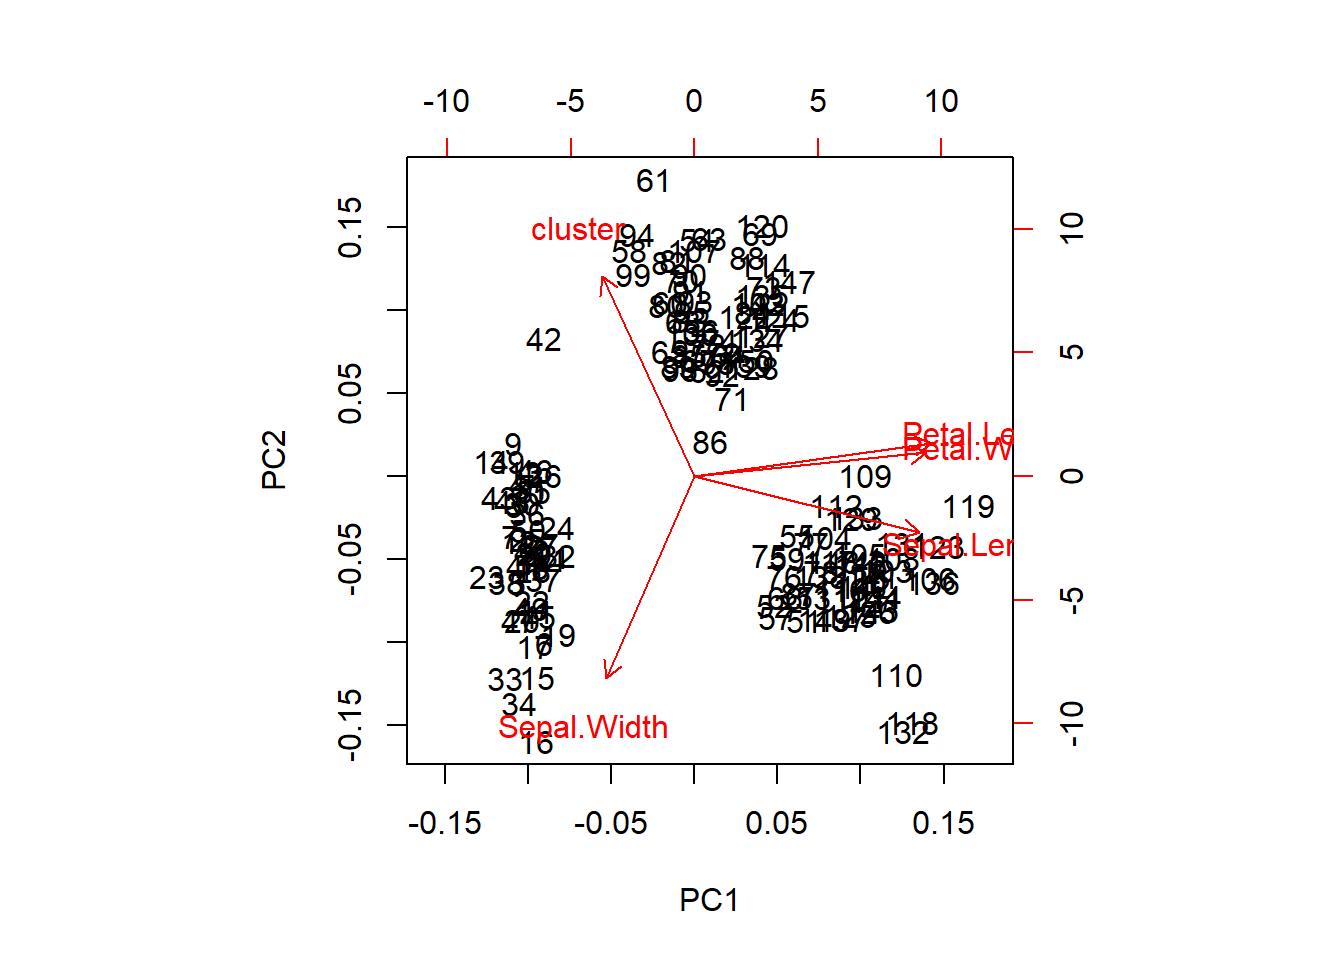
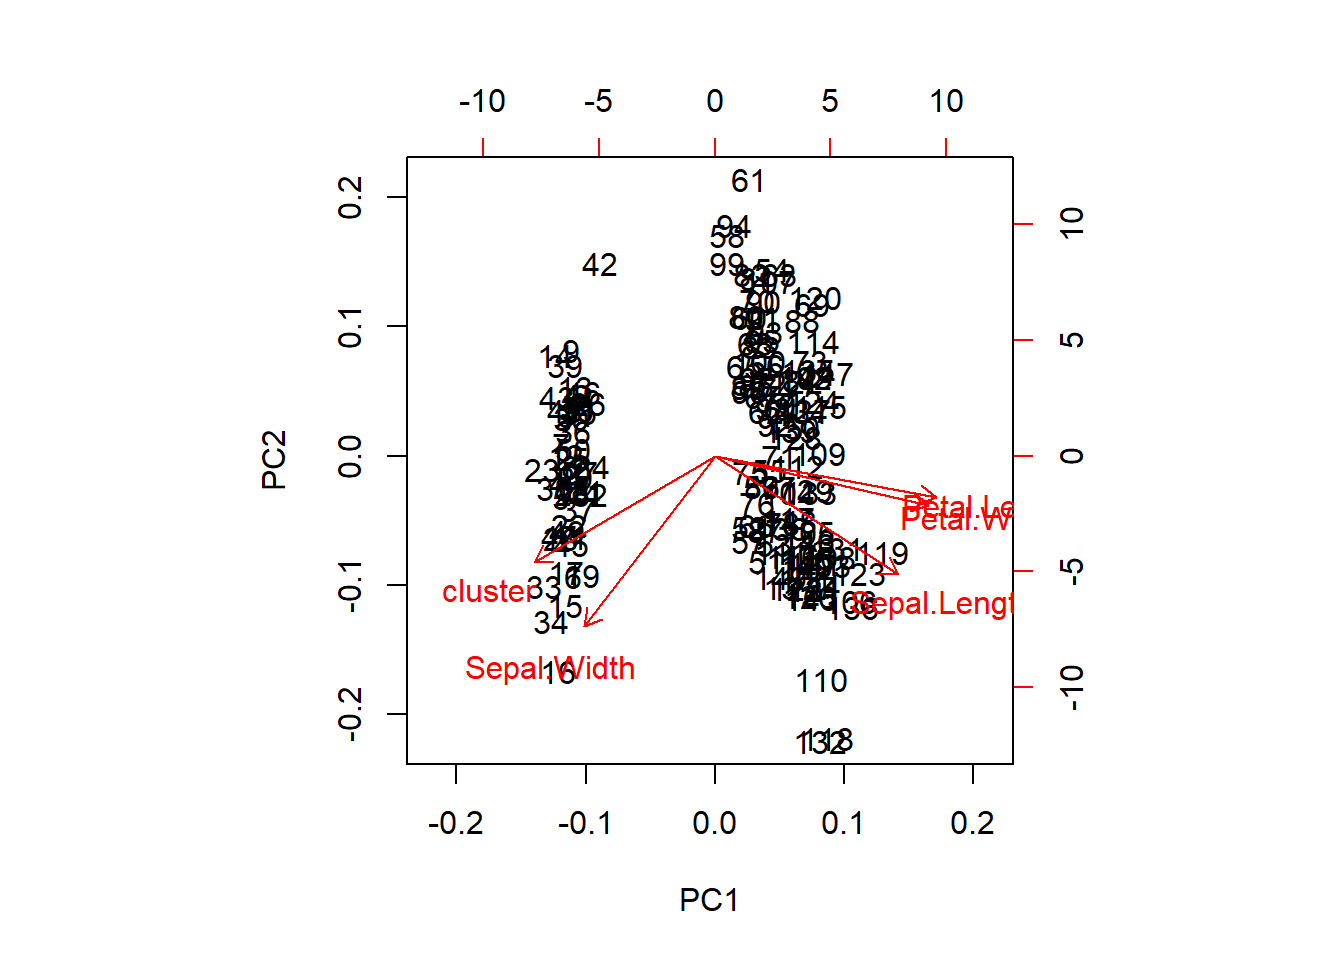
Added theme

diff --git a/docs/Principal-Component-Analysis.html b/docs/Principal-Component-Analysis.html
@@ -15,7 +15,7 @@
 
 <script src="site_libs/jquery-1.11.3/jquery.min.js"></script>
 <meta name="viewport" content="width=device-width, initial-scale=1" />
-<link href="site_libs/bootstrap-3.3.5/css/bootstrap.min.css" rel="stylesheet" />
+<link href="site_libs/bootstrap-3.3.5/css/cosmo.min.css" rel="stylesheet" />
 <script src="site_libs/bootstrap-3.3.5/js/bootstrap.min.js"></script>
 <script src="site_libs/bootstrap-3.3.5/shim/html5shiv.min.js"></script>
 <script src="site_libs/bootstrap-3.3.5/shim/respond.min.js"></script>
@@ -322,12 +322,12 @@ $(document).ready(function () {
 <pre class="r"><code>pca.iris = prcomp(x=iris[-5], scale=T, center=T)</code></pre>
 <p>Which predictors contribute to which principal components</p>
 <pre class="r"><code>pca.iris$rotation</code></pre>
-<pre><code>##                     PC1         PC2       PC3         PC4         PC5
-## Sepal.Length  0.5338256 -0.19269369 0.1591462 -0.75077244  0.29818224
-## Sepal.Width  -0.2100117 -0.69075550 0.6719121  0.12983301 -0.10212486
-## Petal.Length  0.5641321  0.11305340 0.1542496  0.08768809 -0.79843082
-## Petal.Width   0.5515446  0.08050033 0.2130322  0.61932524  0.51026639
-## cluster      -0.2201793  0.68298214 0.6738182 -0.16802134  0.05286116</code></pre>
+<pre><code>##                     PC1        PC2         PC3          PC4         PC5
+## Sepal.Length  0.4339438 -0.4902238  0.29215798 -0.634820119 -0.28813291
+## Sepal.Width  -0.3098553 -0.7032261 -0.63445712  0.001480336  0.08321481
+## Petal.Length  0.5241163 -0.1727258  0.04350378  0.138977369  0.82113373
+## Petal.Width   0.5066432 -0.2043216 -0.08201849  0.683153242 -0.47763999
+## cluster      -0.4292985 -0.4399684  0.70956907  0.333148863  0.08748807</code></pre>
 <p>Sepal.Width has little contribution to PC1 but almost all of PC2</p>
 <div id="visualization" class="section level3">
 <h3>Visualization</h3>

diff --git a/docs/Clustering-Overview.html b/docs/Clustering-Overview.html
@@ -15,7 +15,7 @@
 
 <script src="site_libs/jquery-1.11.3/jquery.min.js"></script>
 <meta name="viewport" content="width=device-width, initial-scale=1" />
-<link href="site_libs/bootstrap-3.3.5/css/bootstrap.min.css" rel="stylesheet" />
+<link href="site_libs/bootstrap-3.3.5/css/cosmo.min.css" rel="stylesheet" />
 <script src="site_libs/bootstrap-3.3.5/js/bootstrap.min.js"></script>
 <script src="site_libs/bootstrap-3.3.5/shim/html5shiv.min.js"></script>
 <script src="site_libs/bootstrap-3.3.5/shim/respond.min.js"></script>

diff --git a/docs/Hierarchical-Clustering.html b/docs/Hierarchical-Clustering.html
@@ -15,7 +15,7 @@
 
 <script src="site_libs/jquery-1.11.3/jquery.min.js"></script>
 <meta name="viewport" content="width=device-width, initial-scale=1" />
-<link href="site_libs/bootstrap-3.3.5/css/bootstrap.min.css" rel="stylesheet" />
+<link href="site_libs/bootstrap-3.3.5/css/cosmo.min.css" rel="stylesheet" />
 <script src="site_libs/bootstrap-3.3.5/js/bootstrap.min.js"></script>
 <script src="site_libs/bootstrap-3.3.5/shim/html5shiv.min.js"></script>
 <script src="site_libs/bootstrap-3.3.5/shim/respond.min.js"></script>

diff --git a/docs/K-Means-Clustering.html b/docs/K-Means-Clustering.html
@@ -15,7 +15,7 @@
 
 <script src="site_libs/jquery-1.11.3/jquery.min.js"></script>
 <meta name="viewport" content="width=device-width, initial-scale=1" />
-<link href="site_libs/bootstrap-3.3.5/css/bootstrap.min.css" rel="stylesheet" />
+<link href="site_libs/bootstrap-3.3.5/css/cosmo.min.css" rel="stylesheet" />
 <script src="site_libs/bootstrap-3.3.5/js/bootstrap.min.js"></script>
 <script src="site_libs/bootstrap-3.3.5/shim/html5shiv.min.js"></script>
 <script src="site_libs/bootstrap-3.3.5/shim/respond.min.js"></script>

diff --git a/docs/index.html b/docs/index.html
@@ -15,7 +15,7 @@
 
 <script src="site_libs/jquery-1.11.3/jquery.min.js"></script>
 <meta name="viewport" content="width=device-width, initial-scale=1" />
-<link href="site_libs/bootstrap-3.3.5/css/bootstrap.min.css" rel="stylesheet" />
+<link href="site_libs/bootstrap-3.3.5/css/cosmo.min.css" rel="stylesheet" />
 <script src="site_libs/bootstrap-3.3.5/js/bootstrap.min.js"></script>
 <script src="site_libs/bootstrap-3.3.5/shim/html5shiv.min.js"></script>
 <script src="site_libs/bootstrap-3.3.5/shim/respond.min.js"></script>
